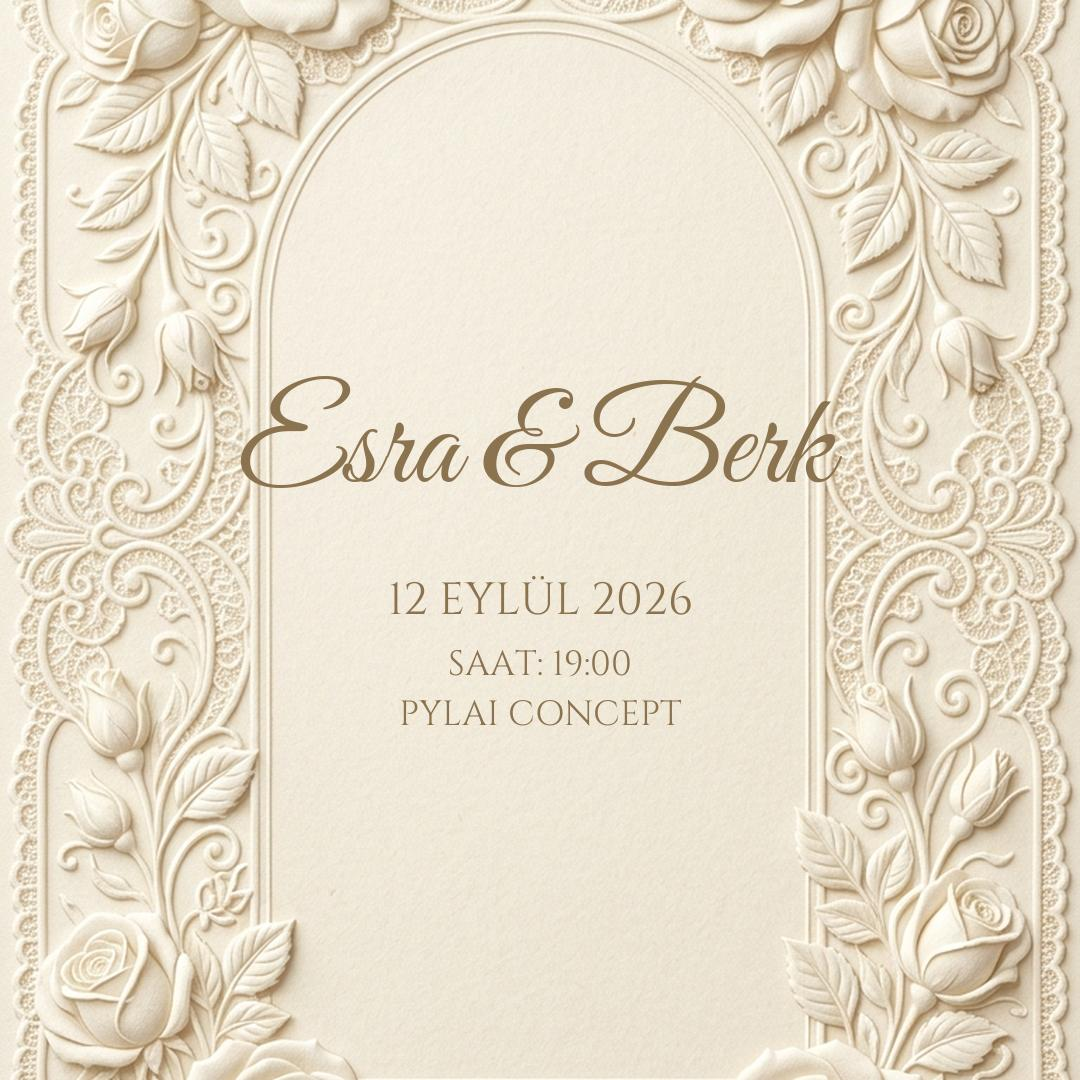
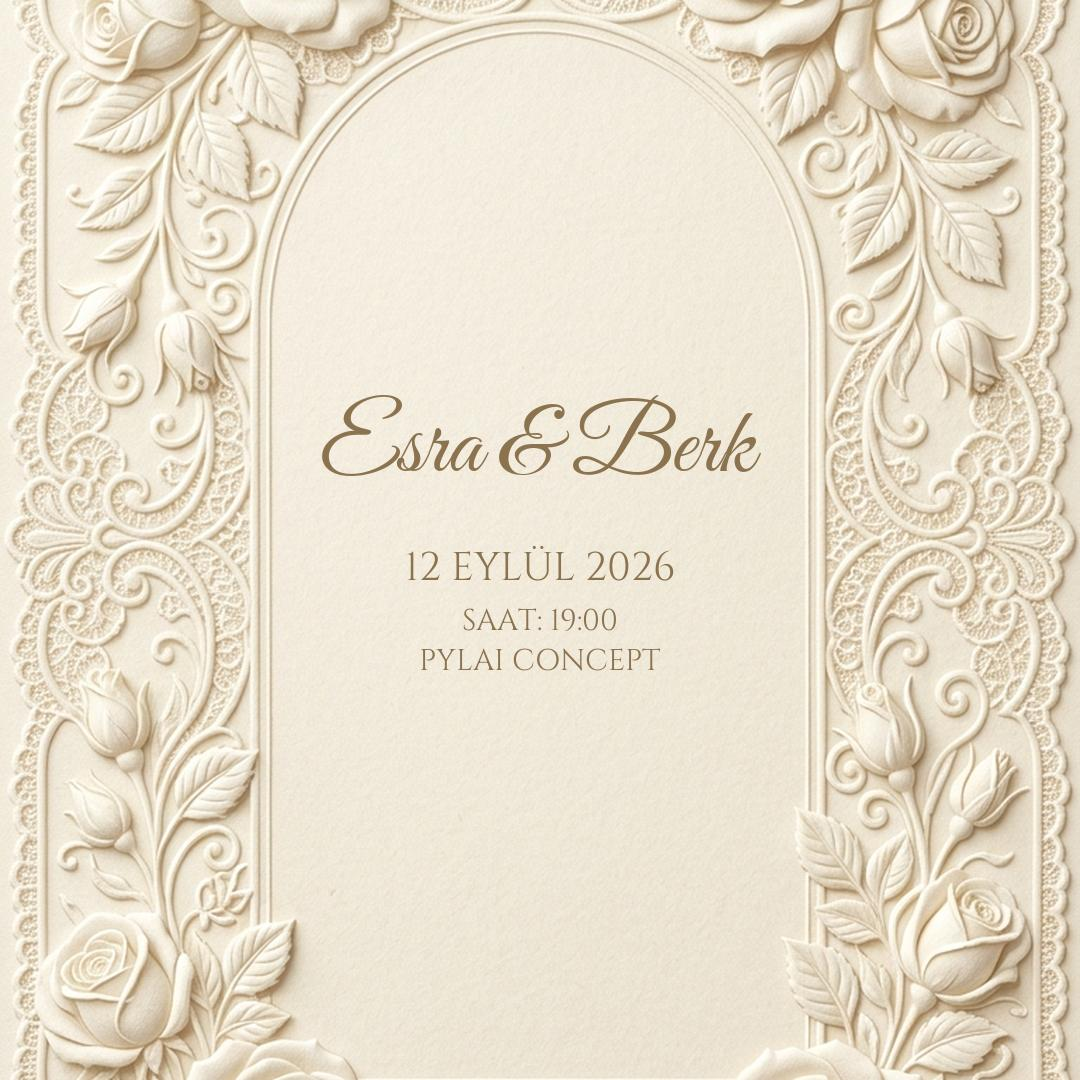
continuity

Changed region(s): [[0.2139, 0.3361, 0.7944, 0.4583], [0.3667, 0.4889, 0.6417, 0.6722]]

diff --git a/make_og.py b/make_og.py
@@ -37,9 +37,9 @@ def create_og_image():
     gold_dark = (140, 115, 80)
     
     # Fonts
-    font_names = ImageFont.truetype("GreatVibes.ttf", 130)
-    font_date = ImageFont.truetype("Cinzel.ttf", 45)
-    font_small = ImageFont.truetype("Cinzel.ttf", 35)
+    font_names = ImageFont.truetype("GreatVibes.ttf", 95)
+    font_date = ImageFont.truetype("Cinzel.ttf", 40)
+    font_small = ImageFont.truetype("Cinzel.ttf", 30)
     
     # Texts
     text_names = "Esra & Berk"
@@ -55,10 +55,10 @@ def create_og_image():
 
     print("Drawing text...")
     # Place text perfectly inside the arch
-    draw_centered_text(text_names, font_names, 370, gold_dark)
-    draw_centered_text(text_date, font_date, 570, gold_dark)
-    draw_centered_text(text_time, font_small, 640, gold_dark)
-    draw_centered_text(text_venue, font_small, 690, gold_dark)
+    draw_centered_text(text_names, font_names, 390, gold_dark)
+    draw_centered_text(text_date, font_date, 540, gold_dark)
+    draw_centered_text(text_time, font_small, 600, gold_dark)
+    draw_centered_text(text_venue, font_small, 640, gold_dark)
     
     print("Saving optimized image...")
     # Save optimized for WhatsApp (< 300KB)
